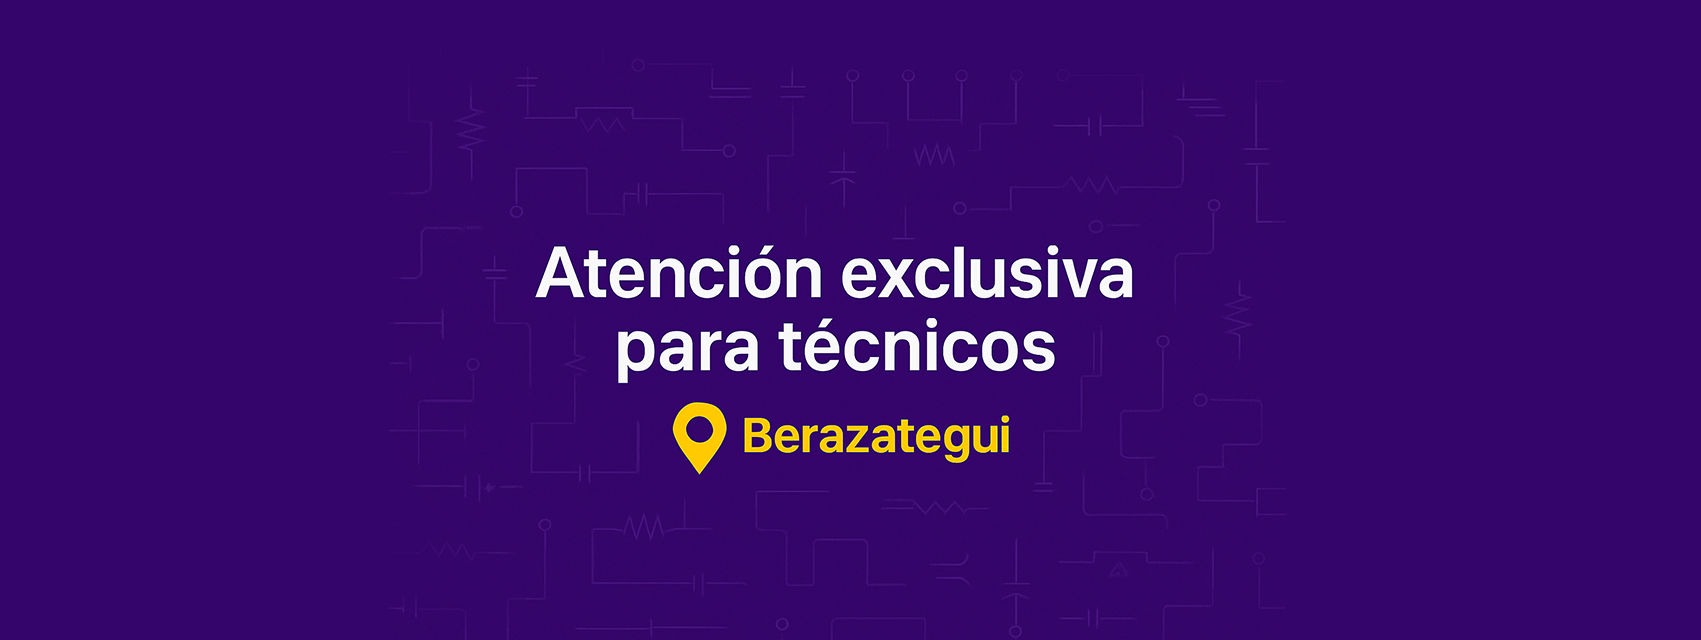
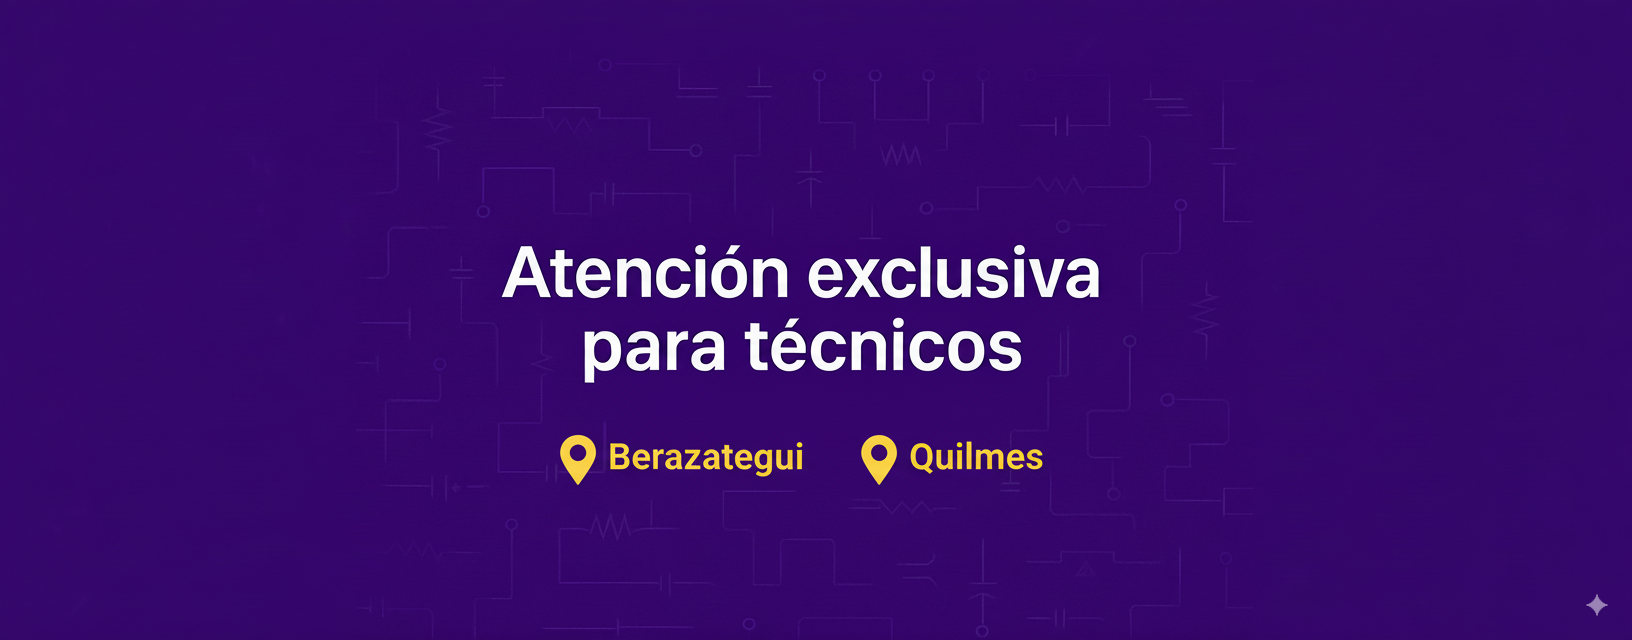
feature: adaptacion para la sucursal de quilmes

diff --git a/src/app/components/whatsappbutton.jsx b/src/app/components/whatsappbutton.jsx
@@ -1,17 +1,99 @@
-import { FaWhatsapp } from "react-icons/fa";
+"use client";
+
+import { useState } from "react";
+
+// Componente del ícono de WhatsApp personalizado
+const WhatsAppIcon = ({ size = 24, className = "" }) => (
+  <svg
+    width={size}
+    height={size}
+    viewBox="0 0 24 24"
+    fill="currentColor"
+    className={className}
+  >
+    <path d="M17.472 14.382c-.297-.149-1.758-.867-2.03-.967-.273-.099-.471-.148-.67.15-.197.297-.767.966-.94 1.164-.173.199-.347.223-.644.075-.297-.15-1.255-.463-2.39-1.475-.883-.788-1.48-1.761-1.653-2.059-.173-.297-.018-.458.13-.606.134-.133.298-.347.446-.52.149-.174.198-.298.298-.497.099-.198.05-.371-.025-.52-.075-.149-.669-1.612-.916-2.207-.242-.579-.487-.5-.669-.51-.173-.008-.371-.01-.57-.01-.198 0-.52.074-.792.372-.272.297-1.04 1.016-1.04 2.479 0 1.462 1.065 2.875 1.213 3.074.149.198 2.096 3.2 5.077 4.487.709.306 1.262.489 1.694.625.712.227 1.36.195 1.871.118.571-.085 1.758-.719 2.006-1.413.248-.694.248-1.289.173-1.413-.074-.124-.272-.198-.57-.347m-5.421 7.403h-.004a9.87 9.87 0 01-5.031-1.378l-.361-.214-3.741.982.998-3.648-.235-.374a9.86 9.86 0 01-1.51-5.26c.001-5.45 4.436-9.884 9.888-9.884 2.64 0 5.122 1.03 6.988 2.898a9.825 9.825 0 012.893 6.994c-.003 5.45-4.437 9.884-9.885 9.884m8.413-18.297A11.815 11.815 0 0012.05 0C5.495 0 .16 5.335.157 11.892c0 2.096.547 4.142 1.588 5.945L.057 24l6.305-1.654a11.882 11.882 0 005.683 1.448h.005c6.554 0 11.89-5.335 11.893-11.893A11.821 11.821 0 0020.465 3.488"/>
+  </svg>
+);
+
+// Componente del ícono X
+const CloseIcon = ({ size = 20, className = "" }) => (
+  <svg
+    width={size}
+    height={size}
+    viewBox="0 0 24 24"
+    fill="none"
+    stroke="currentColor"
+    strokeWidth="2"
+    strokeLinecap="round"
+    strokeLinejoin="round"
+    className={className}
+  >
+    <line x1="18" y1="6" x2="6" y2="18"></line>
+    <line x1="6" y1="6" x2="18" y2="18"></line>
+  </svg>
+);
 
 export default function WhatsAppButton() {
-  const phoneNumber = "5491136546874"; 
+  const [isOpen, setIsOpen] = useState(false);
+
+  const contacts = {
+    berazategui: "5491136546874",
+    quilmes: "5491162042209", 
+  };
+
+  const openWhatsApp = (phoneNumber) => {
+    window.open(`https://wa.me/${phoneNumber}`, "_blank");
+    setIsOpen(false);
+  };
 
   return (
-    <a
-      href={`https://wa.me/${phoneNumber}`}
-      target="_blank"
-      rel="noopener noreferrer"
-      className="fixed bottom-5 right-5 bg-green-500 text-white p-3 rounded-full shadow-lg hover:bg-green-600 transition duration-300 z-50"
-      aria-label="Whatsapp"
-    >
-      <FaWhatsapp size={32} />
-    </a>
+    <>
+      {/* Botón flotante de WhatsApp */}
+      <button
+        onClick={() => setIsOpen(true)}
+        className="fixed bottom-5 right-5 bg-green-500 text-white p-3 rounded-full shadow-lg hover:bg-green-600 transition duration-300 z-50"
+        aria-label="Whatsapp"
+      >
+        <WhatsAppIcon size={32} />
+      </button>
+
+      {/* Modal */}
+      {isOpen && (
+        <div 
+          className="fixed inset-0 bg-black bg-opacity-40 flex items-center justify-center z-50"
+          onClick={() => setIsOpen(false)}
+        >
+          <div 
+            className="bg-white rounded-2xl shadow-lg p-6 w-80 text-center relative"
+            onClick={(e) => e.stopPropagation()}
+          >
+            {/* Botón de cerrar X */}
+            <button
+              onClick={() => setIsOpen(false)}
+              className="absolute top-4 right-4 text-gray-400 hover:text-gray-600 transition-colors duration-200"
+              aria-label="Cerrar"
+            >
+              <CloseIcon size={20} />
+            </button>
+
+            <h2 className="text-lg font-semibold mb-4">Elegí la sucursal</h2>
+            <div className="flex flex-col gap-3">
+              <button
+                onClick={() => openWhatsApp(contacts.berazategui)}
+                className="bg-green-500 text-white px-4 py-2 rounded-lg hover:bg-green-600 transition"
+              >
+                Berazategui
+              </button>
+              <button
+                onClick={() => openWhatsApp(contacts.quilmes)}
+                className="bg-green-500 text-white px-4 py-2 rounded-lg hover:bg-green-600 transition"
+              >
+                Quilmes
+              </button>
+            </div>
+          </div>
+        </div>
+      )}
+    </>
   );
 }

diff --git a/src/app/page.jsx b/src/app/page.jsx
@@ -9,12 +9,12 @@ import SectionG from "./components/sectionG";
 import VisualSeparator from "./components/separator";
 
 export const metadata = {
-  title: "Repuestos para Celulares en Berazategui | Mega Repuestos",
-  description: "✅ Repuestos para celulares en Berazategui: pantallas, baterías, flex, pines de carga. ⚡ Entrega inmediata ⚡ Mejores precios zona sur. ¡Visitanos!",
-  keywords: "repuestos para celulares, repuestos celular berazategui, pantallas celular, baterias celular, repuestos samsung, repuestos iphone, zona sur",
+  title: "Repuestos para Celulares en Zona Sur | Mega Repuestos",
+  description: "✅ Repuestos para celulares en Berazategui y Quilmes: pantallas, baterías, flex, pines de carga. ⚡ Entrega inmediata ⚡ Mejores precios zona sur. ¡Visitanos!",
+  keywords: "repuestos para celulares, repuestos celular berazategui, repuestos celular quilmes, pantallas celular, baterias celular, repuestos samsung, repuestos iphone, zona sur, repuestos, celular",
   robots: "index, follow",
   openGraph: {
-    title: "🔧 Repuestos para Celulares en Berazategui | Stock Completo",
+    title: "🔧 Repuestos para Celulares en Berazategui y Quilmes | Stock Completo",
     description: "✅ Todos los repuestos para tu celular: pantallas, baterías, flex, cargadores. ⚡ Stock permanente ⚡ Zona sur GBA. ¡Consultá ahora!",
     type: "website",
     url: "https://repuestosmega.com.ar",
@@ -23,7 +23,7 @@ export const metadata = {
         url: "/images/megarepuestos.png",
         width: 1200,
         height: 630,
-        alt: "Mega Repuestos - Repuestos para celulares en Berazategui",
+        alt: "Mega Repuestos - Repuestos para celulares en Berazategui y Quilmes",
       },
     ],
   },
@@ -43,7 +43,7 @@ export default function Home() {
     <>
       {/* Header principal con contenido mínimo pero visible */}
       <header className="absolute top-0 left-0 w-1 h-1 overflow-hidden opacity-0 pointer-events-none">
-        <h1>Repuestos Para Celulares en Berazategui - Mega Repuestos</h1>
+        <h1>Repuestos Para Celulares - Mega Repuestos</h1>
         <p>Stock completo de repuestos para celulares: pantallas, baterías, flex de carga, cámaras. Atendemos en zona sur GBA con garantía y entrega inmediata. Samsung, iPhone, Motorola, Xiaomi.</p>
       </header>
 
@@ -144,7 +144,7 @@ export default function Home() {
                   </div>
                   <h3 className="text-2xl font-bold mb-4 text-white">Zona sur GBA</h3>
                   <p className="text-gray-300 text-lg leading-relaxed mb-4">
-                    Atendemos en <strong>Berazategui</strong> con entrega inmediata 
+                    Atendemos en <strong>Berazategui</strong> y <strong>Quilmes</strong> con entrega inmediata 
                     y los mejores precios de la zona.
                   </p>
                   <div className="bg-primary-yellow/10 backdrop-blur-sm rounded-lg p-3 border border-primary-yellow/20">
@@ -200,7 +200,7 @@ export default function Home() {
               </h2>
               <div className="w-24 h-1 bg-gradient-to-r from-primary-yellow to-primary-yellow/80 mx-auto mb-6 rounded-full"></div>
               <p className="text-lg md:text-xl text-white max-w-3xl mx-auto leading-relaxed">
-                En <strong className="text-primary-yellow">Mega Repuestos Berazategui</strong> ofrecemos repuestos para celulares con garantía, stock permanente y atención personalizada para técnicos.
+                En <strong className="text-primary-yellow">Mega Repuestos</strong> ofrecemos repuestos para celulares con garantía, stock permanente y atención personalizada para técnicos.
               </p>
             </div>
             <div className="grid lg:grid-cols-2 gap-8 lg:gap-12">

diff --git a/src/app/components/sectionFooter.jsx b/src/app/components/sectionFooter.jsx
@@ -22,13 +22,24 @@ const SectionFooter = () => {
                                 Calle 150 N°1485, Berazategui
                             </a>
                         </div>
+                                                <div className="flex items-center space-x-3">
+                            <MapPin className="w-6 h-6 text-black" />
+                            <a
+                                href="https://maps.app.goo.gl/dxpDh7KeeJf5ChNP6"
+                                target="_blank"
+                                rel="noopener noreferrer"
+                                className="hover:text-primary-yellow transition"
+                            >
+                                Rivadavia 309 - Local 5, Quilmes
+                            </a>
+                        </div>
                     </div>
                 </div>
 
                 <div className="mt-6 md:mt-0 w-full md:w-auto">
                     <h2 className="text-2xl mb-4" style={{ fontFamily: "'oktah', sans-serif" }}>Sigamos conectados</h2>
                     <div className="flex space-x-6">
-                        <a href="https://www.instagram.com/megacelularesberazategui/" target="_blank" rel="noopener noreferrer" aria-label="Instagram Megacelulares">
+                        <a href="https://www.instagram.com/megarepuestosquilmes/" target="_blank" rel="noopener noreferrer" aria-label="Instagram Megacelulares">
                             <Instagram className="w-8 h-8 text-black hover:text-primary-yellow transition" />
                         </a>
                         <a href="https://www.facebook.com/megacelularesberazategui" target="_blank" rel="noopener noreferrer" aria-label="Facebook Megacelulares">

diff --git a/src/app/components/SectionACarousel.jsx b/src/app/components/SectionACarousel.jsx
@@ -17,10 +17,6 @@ const images = [
         src: "/images/fondo2.png",
         alt: "Repuestos celulares todas las marcas Berazategui - Entrega inmediata"
     },
-        {
-        src: "/images/fondo4.png",
-        alt: "Próximamente nuevo local en Quilmes centro"
-    },
 ];
 
 const SectionACarousel = () => {

diff --git a/src/app/components/sectionE.jsx b/src/app/components/sectionE.jsx
@@ -14,7 +14,7 @@ const SectionE = () => {
           </h2>
           <p className="text-white text-xl mb-6" style={{ fontFamily: "'oktah', sans-serif" }}>
             En Megarepuestos, nos especializamos en la provisión de repuestos para celulares de todas las marcas y modelos. 
-            Ubicados en Berazategui, trabajamos con un amplio catálogo de piezas de alta calidad para garantizar soluciones eficientes a nuestros clientes.
+            Ubicados en Berazategui y Quilmes, trabajamos con un amplio catálogo de piezas de alta calidad para garantizar soluciones eficientes a nuestros clientes.
           </p>
           <p className="text-white text-xl mb-6 hidden sm:block" style={{ fontFamily: "'oktah', sans-serif" }}>
             Nuestro compromiso es ofrecer productos confiables y un servicio excepcional, ayudando a técnicos y comercios a mantener sus dispositivos en óptimas condiciones. 